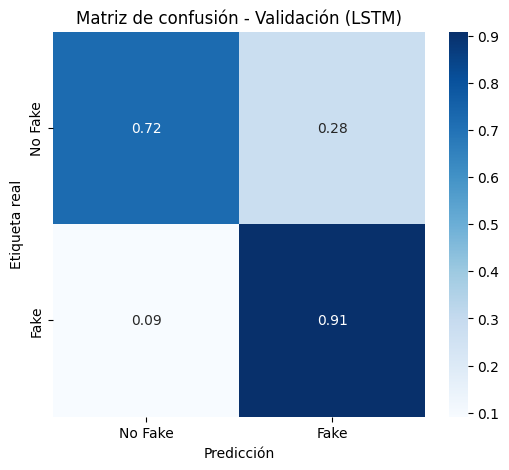
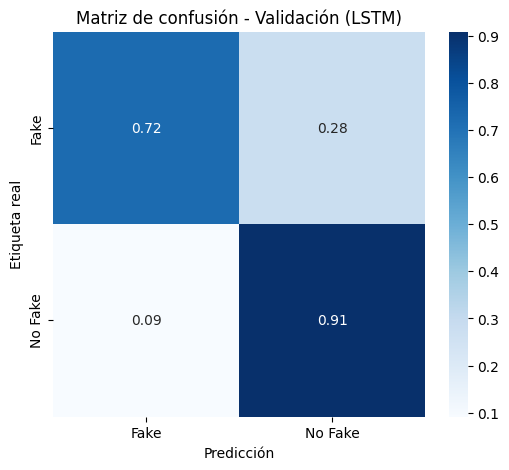
Actualizar evaluadores de modelos para cargar modelos guardados y corregir visualizaciones de matrices de confusión

diff --git a/training/scikit/svc.py b/training/scikit/svc.py
@@ -1,4 +1,5 @@
 import os
+import joblib
 import pandas as pd
 import matplotlib.pyplot as plt
 import stopwordsiso as stopwords
@@ -61,7 +62,7 @@ def optimize_svc(X_train, y_train):
     random_search = RandomizedSearchCV(
         pipeline,
         param_distributions=param_distributions,
-        n_iter=25,
+        n_iter=3,
         cv=3,
         scoring="f1_weighted",
         n_jobs=-1,
@@ -95,9 +96,11 @@ if __name__ == "__main__":
     save_best_model_sklearn(
         best_model, grid.best_score_, BEST_SCORE_PATH, BEST_MODEL_PATH
     )
+    print("\n🔄 Cargando modelo guardado desde disco...")
+    loaded_best_model = joblib.load(BEST_MODEL_PATH)
 
     # Evaluación en validación
-    y_valid_pred = best_model.predict(X_valid)
+    y_valid_pred = loaded_best_model.predict(X_valid)
     print("\n=== Reporte de Validación ===")
     print(classification_report(y_valid, y_valid_pred))
     plot_confusion_matrix(
@@ -111,7 +114,7 @@ if __name__ == "__main__":
     )
 
     # Evaluación en prueba
-    y_test_pred = best_model.predict(X_test)
+    y_test_pred = loaded_best_model.predict(X_test)
     print("\n=== Reporte de Prueba ===")
     print(classification_report(y_test, y_test_pred))
     plot_confusion_matrix(

diff --git a/training/scikit/naive_bayes.py b/training/scikit/naive_bayes.py
@@ -1,4 +1,5 @@
 import os
+import joblib
 import pandas as pd
 import matplotlib.pyplot as plt
 import stopwordsiso as stopwords
@@ -55,7 +56,7 @@ def optimize_nb(X_train, y_train):
     random_search = RandomizedSearchCV(
         pipeline,
         param_distributions=param_distributions,
-        n_iter=25,
+        n_iter=3,
         cv=3,
         scoring="f1_weighted",
         n_jobs=-1,
@@ -89,9 +90,11 @@ if __name__ == "__main__":
     save_best_model_sklearn(
         best_model, grid.best_score_, BEST_SCORE_PATH, BEST_MODEL_PATH
     )
+    print("\n🔄 Cargando modelo guardado desde disco...")
+    loaded_best_model = joblib.load(BEST_MODEL_PATH)
 
     # Evaluación en validación
-    y_valid_pred = best_model.predict(X_valid)
+    y_valid_pred = loaded_best_model.predict(X_valid)
     print("\n=== Reporte de Validación ===")
     print(classification_report(y_valid, y_valid_pred))
     plot_confusion_matrix(
@@ -105,7 +108,7 @@ if __name__ == "__main__":
     )
 
     # Evaluación en prueba
-    y_test_pred = best_model.predict(X_test)
+    y_test_pred = loaded_best_model.predict(X_test)
     print("\n=== Reporte de Prueba ===")
     print(classification_report(y_test, y_test_pred))
     plot_confusion_matrix(

diff --git a/training/tensorflow/bilstm.py b/training/tensorflow/bilstm.py
@@ -20,7 +20,11 @@ from keras.layers import (
 )
 from sklearn.metrics import classification_report, f1_score
 from sklearn.utils.class_weight import compute_class_weight
-from training.tensorflow.utils_keras import save_best_model_keras, plot_training_history
+from training.tensorflow.utils_keras import (
+    save_best_model_keras,
+    plot_training_history,
+    load_best_model_keras,
+)
 from training.utils_common import (
     load_datasets,
     plot_confusion_matrix,
@@ -246,6 +250,13 @@ if __name__ == "__main__":
     save_best_model_keras(model, f1_valid, BEST_SCORE_PATH, BEST_MODEL_PATH)
 
     print("[INFO] Generando visualizaciones...")
+    best_model = load_best_model_keras(BEST_MODEL_PATH)
+    y_valid_pred, y_valid_proba, f1_valid = evaluate_model(
+        best_model, valid_ds, y_valid, "Validación"
+    )
+    y_test_pred, y_test_proba, f1_test = evaluate_model(
+        best_model, test_ds, y_test, "Prueba"
+    )
     plot_confusion_matrix(
         y_valid,
         y_valid_pred,

diff --git a/training/tensorflow/cnn.py b/training/tensorflow/cnn.py
@@ -20,7 +20,11 @@ from keras.layers import (
 )
 from sklearn.metrics import classification_report, f1_score
 from sklearn.utils.class_weight import compute_class_weight
-from training.tensorflow.utils_keras import save_best_model_keras, plot_training_history
+from training.tensorflow.utils_keras import (
+    save_best_model_keras,
+    plot_training_history,
+    load_best_model_keras,
+)
 from training.utils_common import (
     load_datasets,
     plot_confusion_matrix,
@@ -266,6 +270,13 @@ if __name__ == "__main__":
     )
 
     save_best_model_keras(model, f1_valid, BEST_SCORE_PATH, BEST_MODEL_PATH)
+    best_model = load_best_model_keras(BEST_MODEL_PATH)
+    y_valid_pred, y_valid_proba, f1_valid = evaluate_model(
+        best_model, valid_ds, y_valid, "Validación"
+    )
+    y_test_pred, y_test_proba, f1_test = evaluate_model(
+        best_model, test_ds, y_test, "Prueba"
+    )
 
     print("[INFO] Generando visualizaciones...")
     plot_confusion_matrix(

diff --git a/training/scikit/desicion_tree.py b/training/scikit/desicion_tree.py
@@ -1,4 +1,5 @@
 import os
+import joblib
 import pandas as pd
 import matplotlib.pyplot as plt
 import stopwordsiso as stopwords
@@ -95,9 +96,11 @@ if __name__ == "__main__":
     save_best_model_sklearn(
         best_model, grid.best_score_, BEST_SCORE_PATH, BEST_MODEL_PATH
     )
+    print("\n🔄 Cargando modelo guardado desde disco...")
+    loaded_best_model = joblib.load(BEST_MODEL_PATH)
 
     # Evaluación en validación
-    y_valid_pred = best_model.predict(X_valid)
+    y_valid_pred = loaded_best_model.predict(X_valid)
     print("\n=== Reporte de Validación ===")
     print(classification_report(y_valid, y_valid_pred))
     plot_confusion_matrix(
@@ -111,7 +114,7 @@ if __name__ == "__main__":
     )
 
     # Evaluación en prueba
-    y_test_pred = best_model.predict(X_test)
+    y_test_pred = loaded_best_model.predict(X_test)
     print("\n=== Reporte de Prueba ===")
     print(classification_report(y_test, y_test_pred))
     plot_confusion_matrix(

diff --git a/training/scikit/logistic_regression.py b/training/scikit/logistic_regression.py
@@ -1,4 +1,5 @@
 import os
+import joblib
 import pandas as pd
 import matplotlib.pyplot as plt
 import stopwordsiso as stopwords
@@ -98,9 +99,11 @@ if __name__ == "__main__":
     save_best_model_sklearn(
         best_model, grid.best_score_, BEST_SCORE_PATH, BEST_MODEL_PATH
     )
+    print("\n🔄 Cargando modelo guardado desde disco...")
+    loaded_best_model = joblib.load(BEST_MODEL_PATH)
 
     # Evaluación en validación
-    y_valid_pred = best_model.predict(X_valid)
+    y_valid_pred = loaded_best_model.predict(X_valid)
     print("\n=== Reporte de Validación ===")
     print(classification_report(y_valid, y_valid_pred))
     plot_confusion_matrix(
@@ -114,7 +117,7 @@ if __name__ == "__main__":
     )
 
     # Evaluación en prueba
-    y_test_pred = best_model.predict(X_test)
+    y_test_pred = loaded_best_model.predict(X_test)
     print("\n=== Reporte de Prueba ===")
     print(classification_report(y_test, y_test_pred))
     plot_confusion_matrix(

diff --git a/training/scikit/random_forest.py b/training/scikit/random_forest.py
@@ -1,4 +1,5 @@
 import os
+import joblib
 import pandas as pd
 import matplotlib.pyplot as plt
 import stopwordsiso as stopwords
@@ -98,9 +99,11 @@ if __name__ == "__main__":
     save_best_model_sklearn(
         best_model, grid.best_score_, BEST_SCORE_PATH, BEST_MODEL_PATH
     )
+    print("\n🔄 Cargando modelo guardado desde disco...")
+    loaded_best_model = joblib.load(BEST_MODEL_PATH)
 
     # Evaluación en validación
-    y_valid_pred = best_model.predict(X_valid)
+    y_valid_pred = loaded_best_model.predict(X_valid)
     print("\n=== Reporte de Validación ===")
     print(classification_report(y_valid, y_valid_pred))
     plot_confusion_matrix(
@@ -114,7 +117,7 @@ if __name__ == "__main__":
     )
 
     # Evaluación en prueba
-    y_test_pred = best_model.predict(X_test)
+    y_test_pred = loaded_best_model.predict(X_test)
     print("\n=== Reporte de Prueba ===")
     print(classification_report(y_test, y_test_pred))
     plot_confusion_matrix(

diff --git a/training/tensorflow/hibrido.py b/training/tensorflow/hibrido.py
@@ -27,7 +27,11 @@ from keras.layers import (
 )
 from sklearn.metrics import classification_report, f1_score
 from sklearn.utils.class_weight import compute_class_weight
-from training.tensorflow.utils_keras import save_best_model_keras, plot_training_history
+from training.tensorflow.utils_keras import (
+    save_best_model_keras,
+    plot_training_history,
+    load_best_model_keras,
+)
 from training.utils_common import (
     load_datasets,
     plot_confusion_matrix,
@@ -391,6 +395,13 @@ if __name__ == "__main__":
 
     # Generar gráficos
     print("[INFO] Generando visualizaciones...")
+    best_model = load_best_model_keras(BEST_MODEL_PATH)
+    y_valid_pred, y_valid_proba, f1_valid = evaluate_model(
+        best_model, valid_ds, y_valid, "Validación"
+    )
+    y_test_pred, y_test_proba, f1_test = evaluate_model(
+        best_model, test_ds, y_test, "Prueba"
+    )
 
     # Matrices de confusión
     plot_confusion_matrix(

diff --git a/training/tensorflow/lstm.py b/training/tensorflow/lstm.py
@@ -19,7 +19,11 @@ from keras.layers import (
 )
 from sklearn.metrics import classification_report, f1_score
 from sklearn.utils.class_weight import compute_class_weight
-from training.tensorflow.utils_keras import save_best_model_keras, plot_training_history
+from training.tensorflow.utils_keras import (
+    save_best_model_keras,
+    plot_training_history,
+    load_best_model_keras,
+)
 from training.utils_common import (
     load_datasets,
     plot_confusion_matrix,
@@ -290,6 +294,13 @@ if __name__ == "__main__":
 
     # Generar gráficos
     print("[INFO] Generando visualizaciones...")
+    best_model = load_best_model_keras(BEST_MODEL_PATH)
+    y_valid_pred, y_valid_proba, f1_valid = evaluate_model(
+        best_model, valid_ds, y_valid, "Validación"
+    )
+    y_test_pred, y_test_proba, f1_test = evaluate_model(
+        best_model, test_ds, y_test, "Prueba"
+    )
 
     # Matrices de confusión
     plot_confusion_matrix(

diff --git a/training/utils_common.py b/training/utils_common.py
@@ -35,15 +35,15 @@ def save_figure(fig, filename):
 
 def plot_confusion_matrix(y_true, y_pred, title="Matriz de confusión", filename=None):
     """Muestra y guarda matriz de confusión normalizada con Seaborn."""
-    cm = confusion_matrix(y_true, y_pred, normalize="true")
+    cm = confusion_matrix(y_true, y_pred, labels=[0, 1], normalize="true")
     fig, ax = plt.subplots(figsize=(6, 5))
     sns.heatmap(
         cm,
         annot=True,
         fmt=".2f",
         cmap="Blues",
-        xticklabels=["No Fake", "Fake"],
-        yticklabels=["No Fake", "Fake"],
+        xticklabels=["Fake", "No Fake"],
+        yticklabels=["Fake", "No Fake"],
         ax=ax,
     )
     ax.set_title(title)

diff --git a/training/tensorflow/gru.py b/training/tensorflow/gru.py
@@ -19,7 +19,11 @@ from keras.layers import (
 )
 from sklearn.metrics import classification_report, f1_score
 from sklearn.utils.class_weight import compute_class_weight
-from training.tensorflow.utils_keras import save_best_model_keras, plot_training_history
+from training.tensorflow.utils_keras import (
+    save_best_model_keras,
+    plot_training_history,
+    load_best_model_keras,
+)
 from training.utils_common import (
     load_datasets,
     plot_confusion_matrix,
@@ -248,6 +252,7 @@ if __name__ == "__main__":
     )
 
     save_best_model_keras(model, f1_valid, BEST_SCORE_PATH, BEST_MODEL_PATH)
+    
 
     # Confusion matrices
     plot_confusion_matrix(

diff --git a/evaluation/evaluate_models.py b/evaluation/evaluate_models.py
@@ -461,7 +461,7 @@ class AdvancedModelEvaluator:
 
         return interpretaciones
 
-    # ==================== VISUALIZACIONES MEJORADAS ====================
+    # ==================== VISUALIZACIONES ====================
 
     def plot_comprehensive_comparison(self, save_fig=False):
         """Comparación exhaustiva de todos los modelos"""
